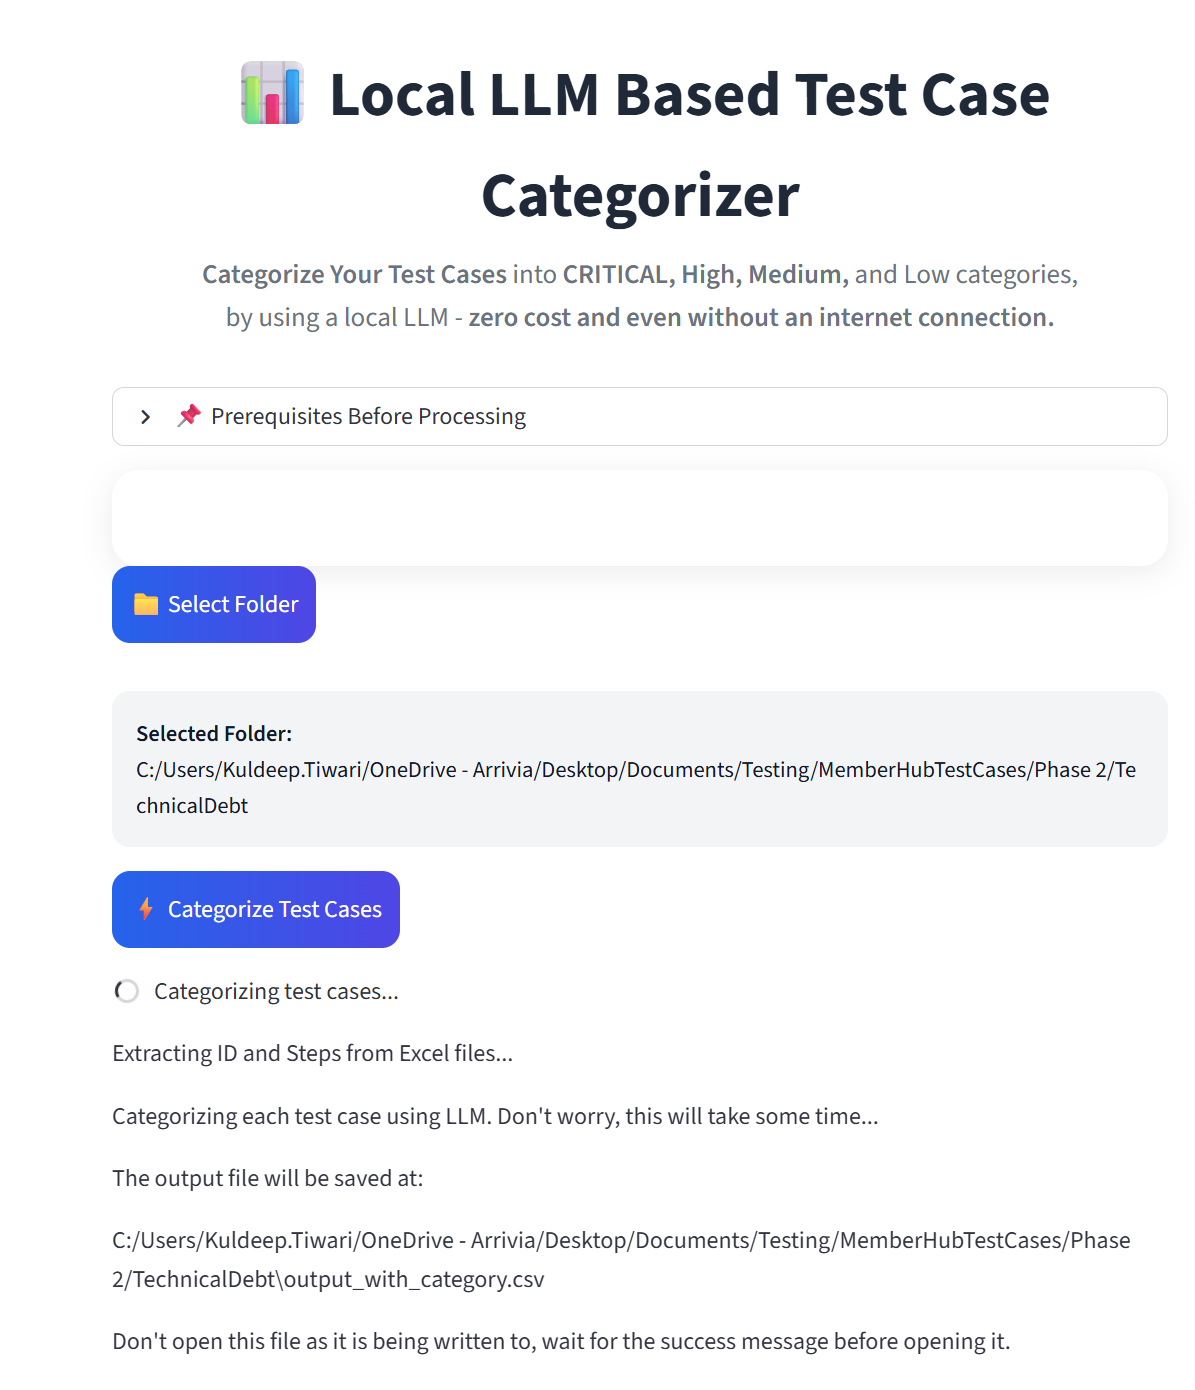
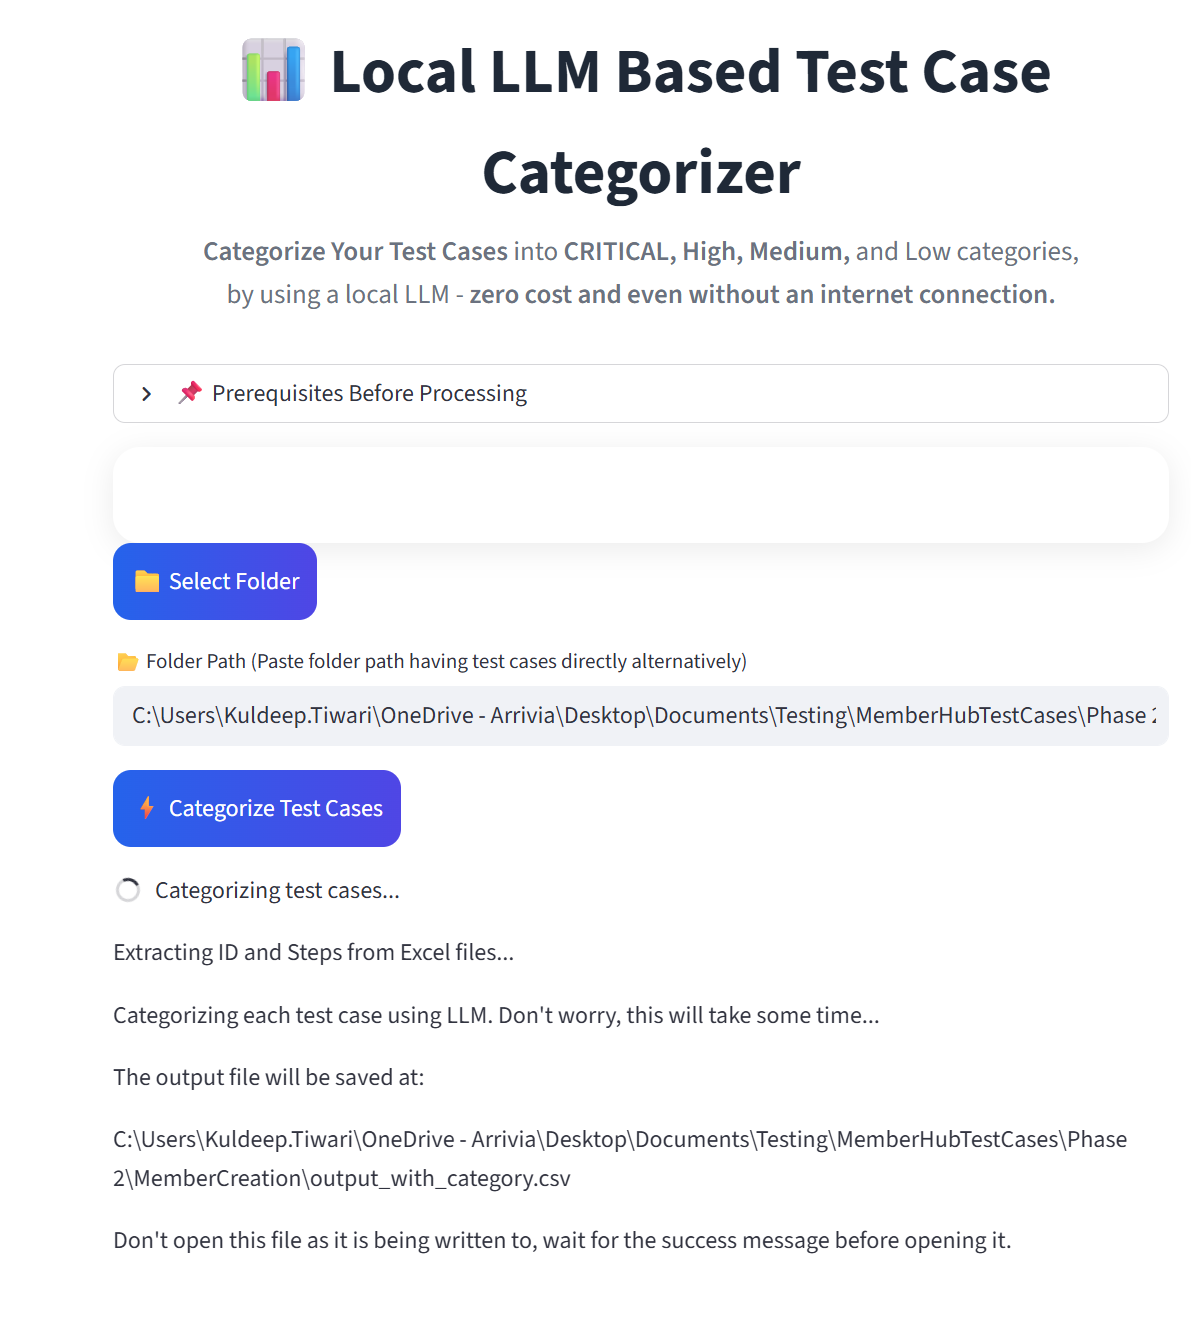
correct logging

diff --git a/categorize-test-cases/src/get_category_reason.py b/categorize-test-cases/src/get_category_reason.py
@@ -30,17 +30,14 @@ PROMPT = load_prompt_template()
 
 def get_category_and_reason(test_case):
 
-    print("started calculating category using LLM")
+    print("started calculating category using LLM for test case :")
     print(test_case)
 
-    #steps = test_case
 
     try:
 
         # Read prompt template from file
         prompt_template = PROMPT
-        print("========================= prompt_template ========================")
-        print(prompt_template)
 
         # Inject dynamic content
         prompt = prompt_template.format(steps=test_case)
@@ -82,20 +79,20 @@ def get_category_and_reason(test_case):
         else:
             parsed_output = {}
 
-        print("=============")
-        print(parsed_output)
+       
 
         category = normalize_category(
             parsed_output.get("category", "")
         )
 
         reason = parsed_output.get("reason", "")
-
+        print("---- result ---")
         print(
             f"category: {category}, reason: {reason}"
         )
-
+        
         print("Finished calculating category using LLM")
+        print("==============================================")
 
         return {
             "category": category,

diff --git a/categorize-test-cases/src/categorize_test_cases.py b/categorize-test-cases/src/categorize_test_cases.py
@@ -23,11 +23,11 @@ def process_csv(input_file, output_file):
             continue  # ✅ Skip already processed
 
         step_action = row['Step Action']
-        print("======================== step_action =========================")
+        
         result = get_category_and_reason(step_action)
         category = result["category"]
         reason = result["reason"]
-        print("category: "+category+", reason: "+reason)
+        #print("category: "+category+", reason: "+reason)
 
         new_row = pd.DataFrame([{
             'ID': test_id,

diff --git a/categorize-test-cases/README.md b/categorize-test-cases/README.md
@@ -4,7 +4,7 @@
 ## WHY local LLM
  #### There are 100s and sometimes thousands of test cases (MemberHub application has 850+ test cases) for single application,
  #### The criteria to categorize test cases may keep evolving and hence might need finetuning - which means we might need to run the LLM on this big number of test cases multiple times - just for a single application.
- #### This activity does not need any context other then the categorization criteria (i.e. prompt) and the test cases, and hence shoud be doable even without having an  internet connection.
+ #### This activity does not need any context other than the categorization criteria (i.e. prompt) and the test cases, and hence shoud be doable even without having an  internet connection.
 
 
 ## Prerequisites
@@ -29,7 +29,7 @@
  dev-tools\categorize-test-cases> streamlit run .\src\app.py --server.address="0.0.0.0"
 ```
      
-#### b. You should the below URL launched, 
+#### b. You should see the below URL launched in your default browser, 
 ```bash
  http://localhost:8501/ 
 ```
@@ -39,6 +39,7 @@
   <img src="./assets/UI.png" alt="Graph view in LangGraph studio UI" width="75%" />
 </div>
 
+<!--
 
 ## 3. Docker way (Simpler) -
  ### Have Docker installed
@@ -55,3 +56,16 @@
  http://localhost:8501/ 
 ```
 #### [Note : The folder selection button does not work in docker app, copy paste the local folder path having test cases directly in the text box]
+-->
+
+### Troubleshooting | Miscellaneous
+ #### If you want to stop this long running process - 
+   #### Know the process ID of the streamlit process
+   ```bash
+ ps 
+```
+  #### Kill the process (below is windows command, use corresponding linux command for mac)
+   ```bash
+ taskkil /F /pid <process ID of streamlit>
+```
+
